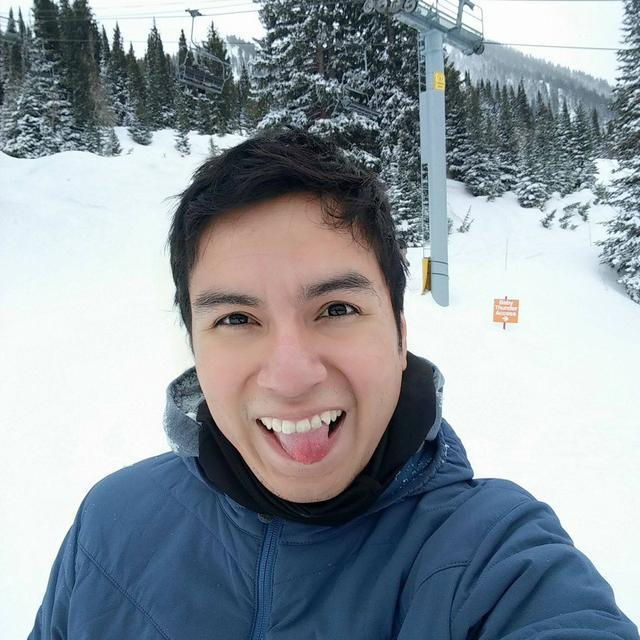
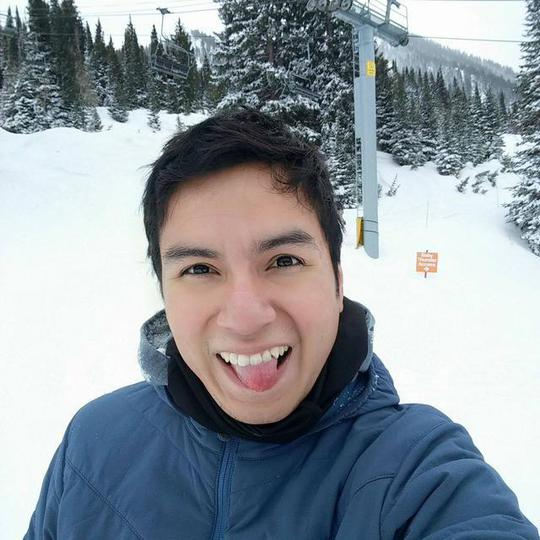
added smaller photos

diff --git a/python-microservice/pre-process-photos.py b/python-microservice/pre-process-photos.py
@@ -10,7 +10,7 @@ mypath = dirname(abspath(__file__))+target_dir
 fileList = [f for f in listdir(mypath) if isfile(join(mypath, f))]
 
 for photo in fileList:
-    maxsize = (640,640)
+    maxsize = (540,540)
     image = Image.open(mypath+"/"+photo)
     thumb = ImageOps.fit(image, maxsize, Image.ANTIALIAS)
     thumb.save(mypath+"/"+photo)
